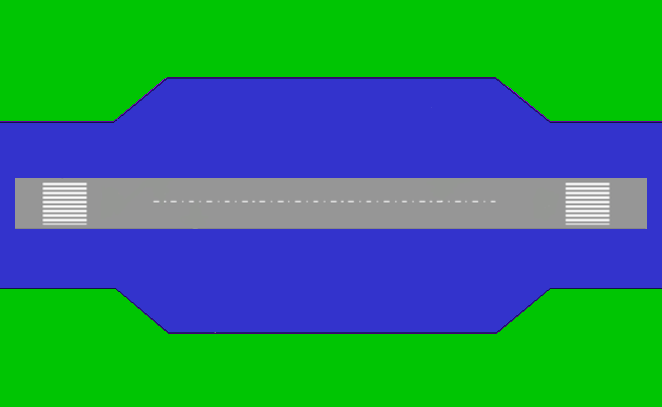
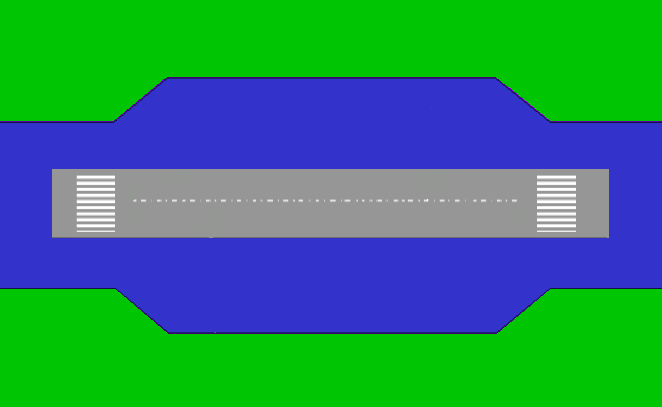
Left runaway partilly fixed

diff --git a/src/main/java/runway/Controller/Controller.java b/src/main/java/runway/Controller/Controller.java
@@ -19,6 +19,7 @@ import javafx.scene.layout.*;
 
 import javafx.scene.paint.Color;
 import javafx.scene.shape.Line;
+import javafx.scene.shape.Polygon;
 import javafx.scene.shape.Rectangle;
 import javafx.scene.text.Text;
 import javafx.stage.Modality;
@@ -41,32 +42,24 @@ public class Controller {
     private ComboBox<String> runwaySelect;
     private Airport airport;
     private Runway current;
+
+    private Color colour = Color.WHITE;
+    private Boolean leftView = true;
+
     @FXML
     private AnchorPane sideOnAnchorPane;
     @FXML
     private AnchorPane topView;
     @FXML
-    private Line lineTODA;
+    private Line lineTODA, lineASDA, lineTORA, lineLDA;
     @FXML
-    private Line lineASDA;
+    private Text textTODA, textASDA, textTORA, textLDA;
     @FXML
-    private Line lineTORA;
+    private Text designatorL, designatorR;
     @FXML
-    private Line lineLDA;
+    private Polygon topLeftArrow, topRightArrow;
     @FXML
-    private Text textTODA;
-    @FXML
-    private Text textASDA;
-    @FXML
-    private Text textTORA;
-    @FXML
-    private Text textLDA;
-    @FXML
-    private Text designatorL;
-    @FXML
-    private Text designatorR;
-
-    private Boolean leftView = true;
+    private Rectangle topYellow, topRed, topOrange;
 
     @FXML
     private Text sideTORA ,sideLDA, sideTODA ,sideASDA;
@@ -147,42 +140,114 @@ public class Controller {
     }
 
     public void topRunwayUpdate() {
+        int LTODA = -140;
+        int LASDA = -70;
+        int LTORA = -30;
+        int RTORA = 360;
+        int RASDA = 400;
+        int RTODA = 470;
+        int TTORA = 390;
+        int LCOLOR = 115;
+        int RCOLOR = 510;
+        int COLOR_DIST = 395;
+
+
         VirtualRunway v;
         leftB.setText(current.getLeftRunway().toString());
         rightB.setText(current.getRightRunway().toString());
 
+        lineTODA.setStroke(colour);
+        lineASDA.setStroke(colour);
+        lineTORA.setStroke(colour);
+        lineLDA.setStroke(colour);
+
+        designatorL.setText(current.getLeftRunway().getDesignator());
+        designatorR.setText(current.getRightRunway().getDesignator());
+
+
         if (leftView) {
             v = current.getLeftRunway();
-            designatorL.setText(current.getLeftRunway().getDesignator());
-            designatorR.setText(current.getRightRunway().getDesignator());
+            topRightArrow.setVisible(true);
+            topLeftArrow.setVisible(false);
+
+            topRed.setVisible(true);
+            topYellow.setVisible(true);
+            topOrange.setVisible(true);
+
+            double tora = v.getInitialParameters().getTora();
+            double lda = v.getInitialParameters().getLda();
+            double toda = v.getInitialParameters().getToda();
+            double asda = v.getInitialParameters().getAsda();
+
+            double ldaoffset = LTORA + (TTORA - (TTORA * lda / toda));
+            double asdaoffset = (TTORA * asda / toda) + LTORA;
+            double toraoffset = (TTORA * tora / toda) + LTORA;
+
+            double toraoffset2 = (TTORA * tora / toda);
+
+            double yellowoffset = (TTORA - (TTORA * lda / toda));
+            double redoffset = (COLOR_DIST*toraoffset2/390) + LCOLOR;
+            double orangeoffset = (COLOR_DIST*toraoffset2/390) + LCOLOR;
+
+            topYellow.setLayoutX(LCOLOR);
+            topYellow.setWidth(yellowoffset);
+
+            topRed.setLayoutX(redoffset);
+            topRed.setWidth(RTORA - toraoffset);
+
+            topOrange.setLayoutX(redoffset);
+            topOrange.setWidth(asdaoffset - toraoffset);
+
+            lineTODA.setStartX(LTORA);
+            lineASDA.setStartX(LTORA);
+            lineTORA.setStartX(LTORA);
+            lineLDA.setStartX(ldaoffset);
+
+            lineTODA.setEndX(RTORA);
+            lineASDA.setEndX(asdaoffset);
+            lineTORA.setEndX(toraoffset);
+            lineLDA.setEndX(RTORA);
+
+            textTORA.setText("TORA: " + tora);
+            textLDA.setText("LDA: " + lda);
+            textTODA.setText("TODA: " + toda);
+            textASDA.setText("ASDA: " + asda);
+
         } else {
             v = current.getRightRunway();
-            designatorR.setText(current.getLeftRunway().getDesignator());
-            designatorL.setText(current.getRightRunway().getDesignator());
+            topLeftArrow.setVisible(true);
+            topRightArrow.setVisible(false);
+
+            topRed.setVisible(false);
+            topYellow.setVisible(false);
+            topOrange.setVisible(false);
+
+            double tora = v.getInitialParameters().getTora();
+            double lda = v.getInitialParameters().getLda();
+            double toda = v.getInitialParameters().getToda();
+            double asda = v.getInitialParameters().getAsda();
+
+            double asdaoffset = LTORA + (TTORA - (TTORA * asda / toda));
+            double toraoffset = LTORA + (TTORA - (TTORA * tora / toda));
+            double ldaoffset = RTORA - (TTORA - (TTORA * lda / toda));
+
+            lineTODA.setStartX(LTORA);
+            lineASDA.setStartX(asdaoffset);
+            lineTORA.setStartX(toraoffset);
+            lineLDA.setStartX(LTORA);
+
+            lineTODA.setEndX(RTORA);
+            lineASDA.setEndX(RTORA);
+            lineTORA.setEndX(RTORA);
+            lineLDA.setEndX(ldaoffset);
+
+            textTORA.setText("TORA: " + tora);
+            textLDA.setText("LDA: " + lda);
+            textTODA.setText("TODA: " + toda);
+            textASDA.setText("ASDA: " + asda);
+
         }
-        Integer PIXEL_START = -317;
-        Integer PIXEL_TOTAL = 635;
 
-        lineTODA.setStroke(Color.BLACK);
-        lineASDA.setStroke(Color.BLACK);
-        lineTORA.setStroke(Color.BLACK);
-        lineLDA.setStroke(Color.BLACK);
-
-        double tora = v.getInitialParameters().getTora();
-        double lda = v.getInitialParameters().getLda();
-        double toda = v.getInitialParameters().getToda();
-        double asda = v.getInitialParameters().getAsda();
-
-        lineTODA.setEndX(430);
-        lineASDA.setEndX((int) asda* 430 / toda);
-        lineTORA.setEndX((int) tora* 430 / toda);
-        lineLDA.setEndX((int) lda* 430 / toda);
-
-
-        textTORA.setText("TORA: " + tora);
-        textLDA.setText("LDA: " + lda);
-        textTODA.setText("TODA: " + toda);
-        textASDA.setText("ASDA: " + asda);
     }
 
 

diff --git a/src/main/java/runway/View/GUI.java b/src/main/java/runway/View/GUI.java
@@ -29,7 +29,7 @@ public class GUI extends Application {
             primaryStage.setTitle("Runway Redeclaration Tool");
             primaryStage.setScene(new Scene(root));
             primaryStage.show();
-            primaryStage.setResizable(false);
+            primaryStage.setResizable(true);
             controller.initialize();
             Test test = new Test();
 
